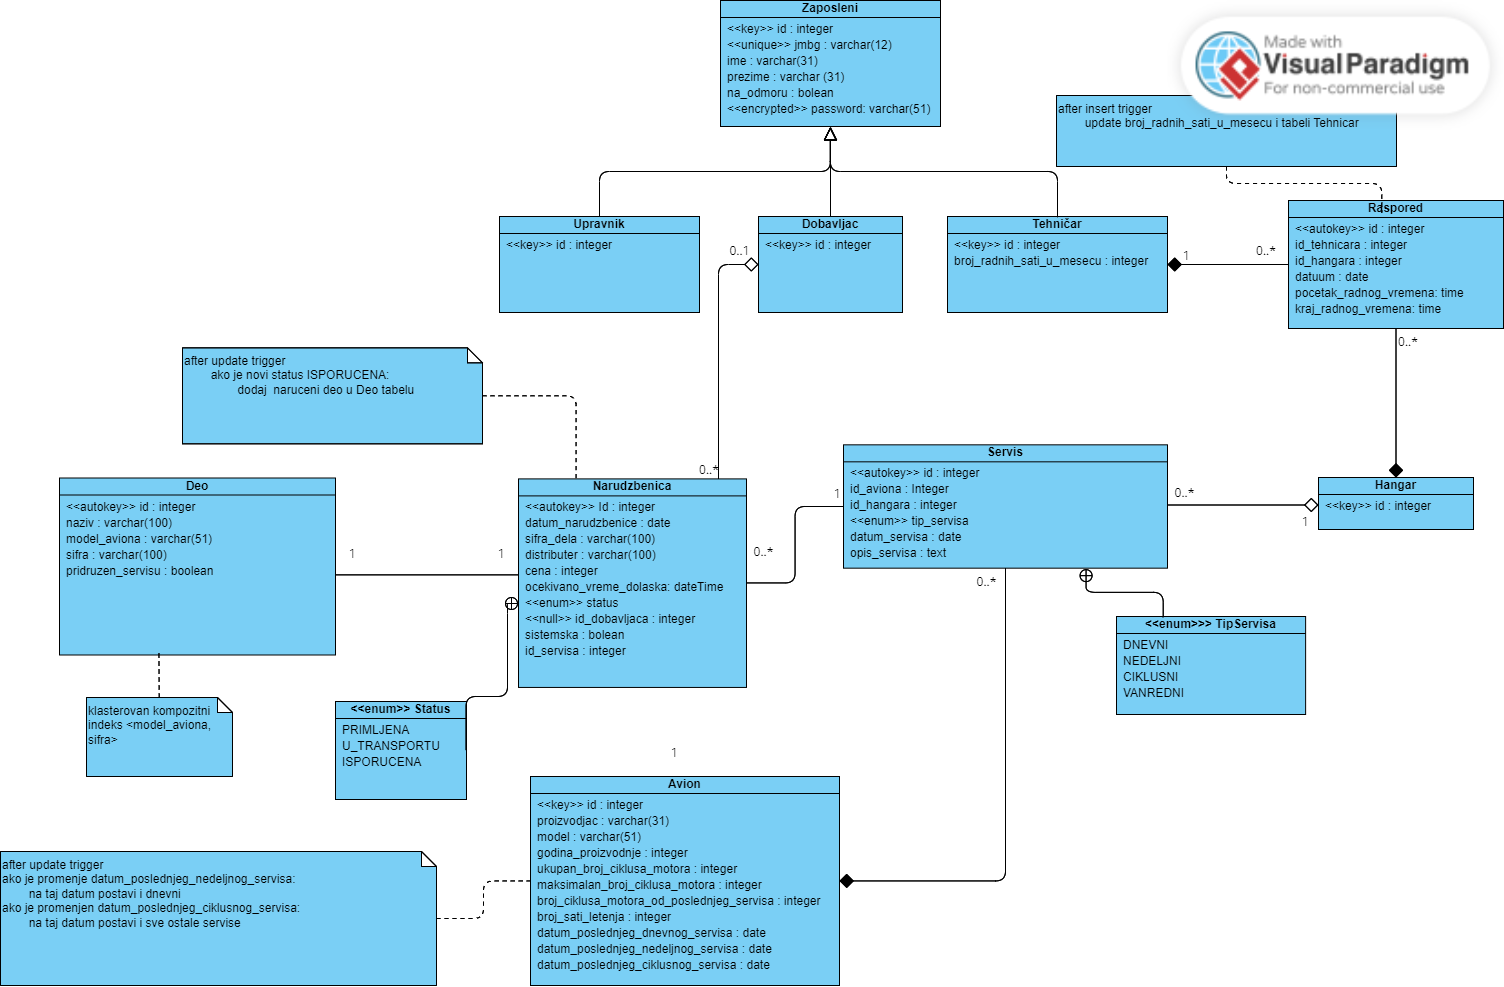
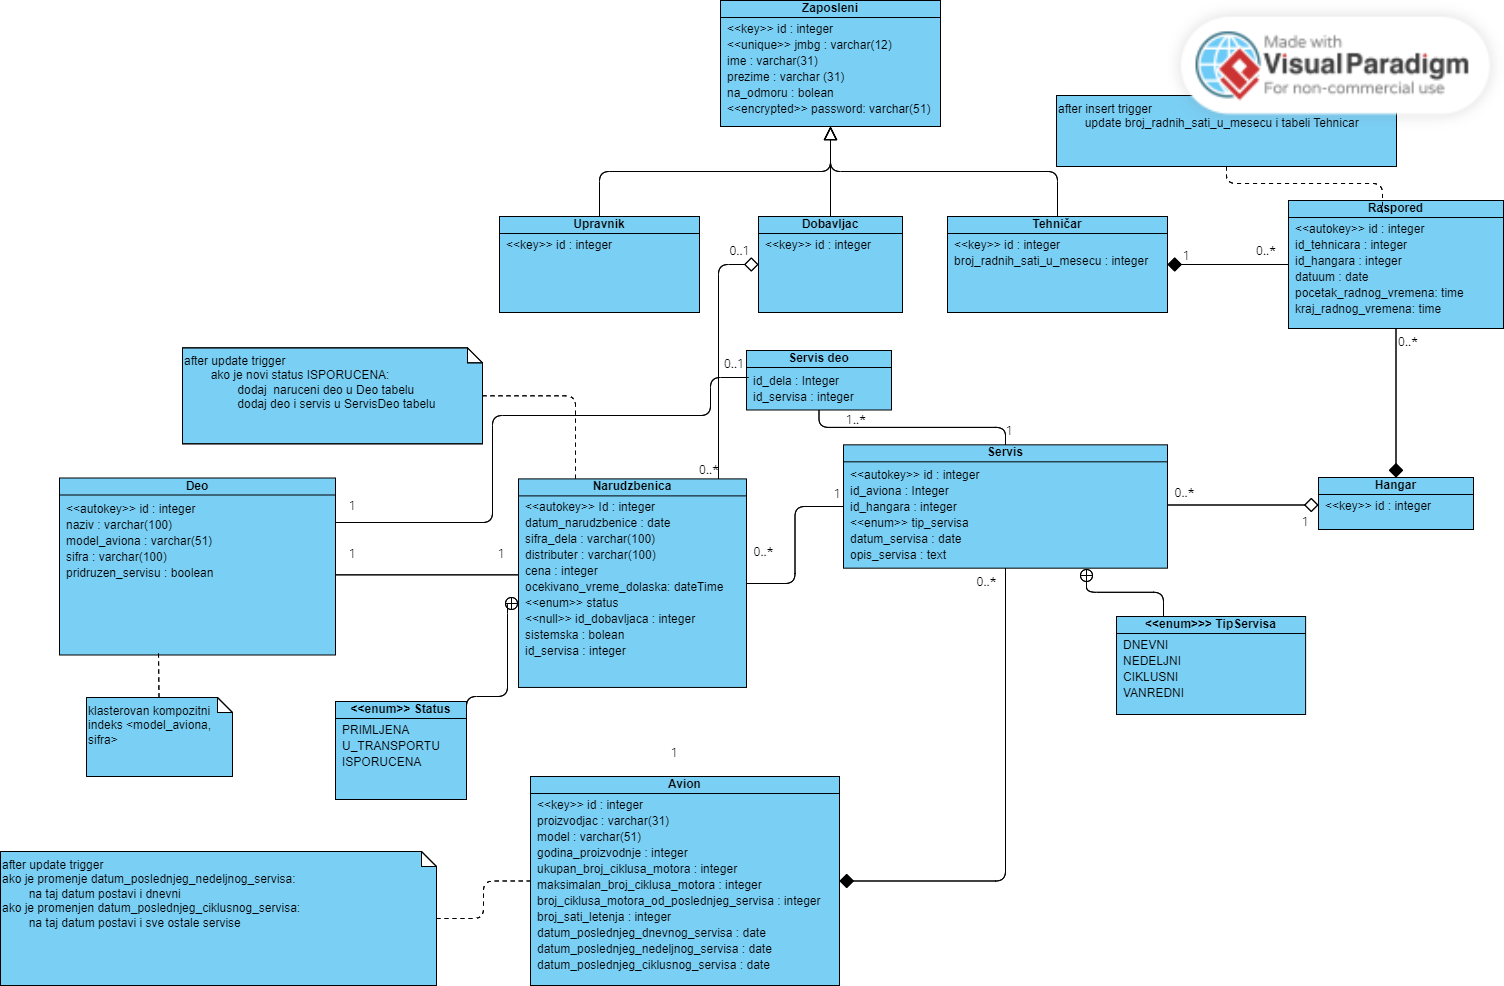
Ispravljeni dijagram klasa podataka i slucaj upotrebe servisiranje aviona

diff --git a/main.tex b/main.tex
@@ -363,7 +363,7 @@ Komunikacija koja se odvija sa dobavljačima je detaljno prikazana na slici \ref
     \item \textbf{Kratak opis}: Sistem omogućava tehničarima da vide raspored servisa i informacije o servisu. Tehničar servisira onaj avion čiji je servis zakazan za vreme njegovog radnog vremena u hangaru u kom je on raspoređen.
     \item \textbf{Akteri}: Tehničar
     \item \textbf{Preduslovi}: Sistem je aktivan. Raspored servisa je napravljen i dostupan tehničarima.
-    \item \textbf{Postuslovi}: Serviser je uspešno obavio servis aviona i uneo servis u evidenciju.
+    \item \textbf{Postuslovi}: Serviser je uspešno obavio servis aviona i uneo servis u evidenciju. Delovi korišćeni na servisu se brišu iz baze.
     \item \textbf{Osnovni tok}:
         \begin{enumerate}
             \item Tehničar klikom na sekciju $"$Raspored servisa$"$ vidi sve zakazane servise. Klikom na određen servis vidi dodatne informacije za taj servis (tip aviona, proizvođač, godina, uputstva od proizvođača).
@@ -371,6 +371,7 @@ Komunikacija koja se odvija sa dobavljačima je detaljno prikazana na slici \ref
             \item Kada je servis završen, klikom na dugme $"$Završi servis$"$ otvara se prozor u kome treba da unese informacije o servisu koje će biti sačuvane kao servisna istorija aviona.
             \item U polju $"$Urađeno na servisu$"$ navodi sve što je urađeno u tom servisu. Polja kao što su tip servisa, datum i vreme servisa su unapred popunjena.
             \item Klikom na dugme $"$Zapamti servis$"$, servis se čuva u servisnoj istoriji i status mu je promenje u $"$Završen$"$.
+            \item Nakon toga, unosi šifre delova koje je koristio u polje $"$Korišćeni delovi$"$, jednu ispod druge, pri čemu mu $"$autocomplete$"$ nudi opcije.
         \end{enumerate}
     \item \textbf{Alternativni tokovi:}
         \begin{enumerate}
@@ -393,12 +394,12 @@ Komunikacija koja se odvija sa dobavljačima je detaljno prikazana na slici \ref
     \item \textbf{Kratak opis}: Ovaj slučaj upotrebe fokusira se na upravljanje zalihama delova za avion od strane dobavljača, kako bi se osigurala dostupnost potrebnih komponenti za redovna servisiranja aviona. Sistem za automatsko naručivanje delova, osmišljen je za praćenje, upravljanje i obezbeđivanje delova potrebnih za redovne servise.
     \item \textbf{Akteri}: Dobavljač
     \item \textbf{Preduslovi}: Postojanje sistema za automatsko upravljanje delovima. Dobavljač vidi rasporedu redovnih servisa i informacije o trenutnom stanju zaliha. Sistem je aktivan.
-    \item \textbf{Postuslovi}: Ažurirane informacije o zalihama za sve redovne servise. U Rasporedu servisa je oznaceno da su delovi za taj servis spremni.
+    \item \textbf{Postuslovi}: Ažurirane informacije o zalihama za sve redovne servise. 
     \item \textbf{Osnovni tok}:
         \begin{enumerate}
             \item Klikom na sekciju $"$Narudžbine$"$ prikazuju mu se sve narudžbenice koje je sistem za automatsko upravljanje napravio.
             \item Klikom na narudžbenicu prikazuju mu se sve informacije o njoj (status narudžbenice, servis za koji je napravljena, vreme stizanja, informacije o naručenom delu itd...).
-            \item Ukoliko je status narudžbenice $"$Isporučena$"$, dostupno mu je dugme $"$Pridruži servisu$"$. Klikom na dugme, delovi se automatski pridružuju servisu za koji su namenjeni i stanje delova se ažurira (označava se da je deo pridružen servisu.).
+            \item Ukoliko je status narudžbenice $"$Isporučena$"$, dostupno mu je dugme $"$Pridruži servisu$"$. Klikom na dugme, delovi se automatski pridružuju servisu za koji su namenjeni i stanje delova se ažurira (zapisuje se u bazi podataka da je deo pridruzen servisu).
         \end{enumerate}
     \item \textbf{Alternativni tokovi}: /
     \item \textbf{Specijalni uslovi}: Sistem mora pružati tačne i ažurirane informacije o dostupnosti delova. Informacije o narudžbenicama moraju biti transparentne, uključujući procenjeni datum dolaska delova.
@@ -589,9 +590,4 @@ Zbog ograničenog vremena i broja članova tima, kao i složenosti problema koji
     \item Mogućnost dobijanja različitih vrsta statistika vezanih za servisiranje aviona. Ove statistike bi bile korisne za otkrivanje stvari kao što su najčešćih uzroci kvara na avionima (što za odredjen tip aviona, što generalno).
 \end{itemize}
 
-
-\addcontentsline{toc}{section}{Literatura}
-\appendix
-\bibliography{seminarski} 
-\bibliographystyle{plain}
 \end{document}
